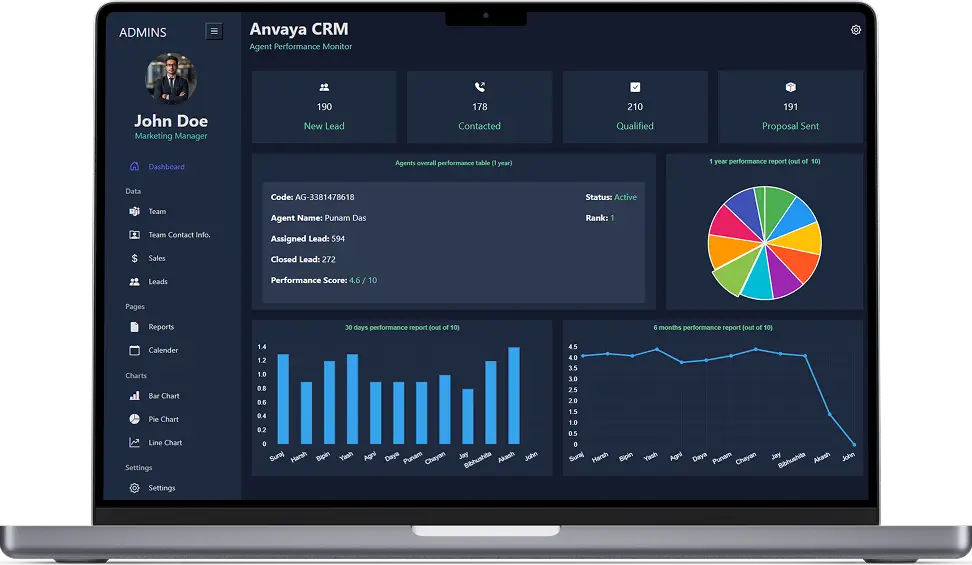
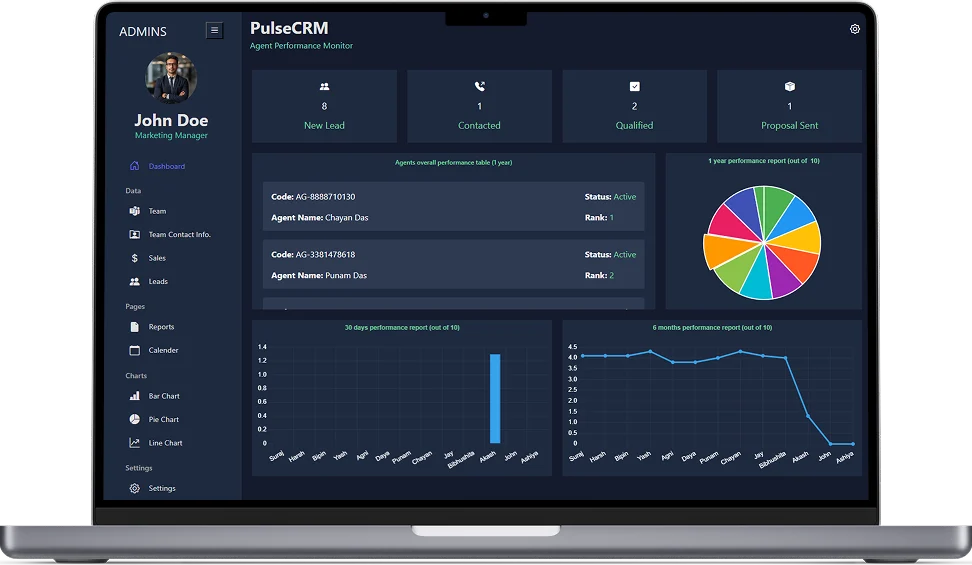
Add Resume button

diff --git a/index.html b/index.html
@@ -168,6 +168,12 @@
           <div class="bio-text">
             <h1 class="dev-name">Akash Das</h1>
             <p class="dev-title">MERN Stack Developer</p>
+            <a
+              class="resume-anchor"
+              href="https://drive.google.com/file/d/1YCBB3FFnG5zaSoyEmLsEnBIT4MhwNz0E/view?usp=sharing"
+              target="_blank"
+              ><button class="btn btn-resume">Resume</button></a
+            >
             <button class="btn btn-about" onclick="openAboutMeSection()">
               About Me
               <svg
@@ -306,18 +312,22 @@
               </p>
             </div>
 
-            <ul class="about-me-detail">
-              <li>#Javascript (ES6+)</li>
-              <li>#React.js</li>
-              <li>#node.js</li>
-              <li>#Express.js</li>
-              <li>#mongoDB</li>
-              <li>#mongoose</li>
-              <li>#HTML5</li>
-              <li>#CSS3</li>
-              <li>#Bootstrap</li>
-              <li>#git</li>
-            </ul>
+            <div>
+              <h2 class="tech-stack-title">Tech Stack</h2>
+              <p class="tech-stack-para">Technologies and tools I work with</p>
+              <ul class="about-me-detail">
+                <li>#Javascript (ES6+)</li>
+                <li>#React.js</li>
+                <li>#node.js</li>
+                <li>#Express.js</li>
+                <li>#mongoDB</li>
+                <li>#mongoose</li>
+                <li>#HTML5</li>
+                <li>#CSS3</li>
+                <li>#Bootstrap</li>
+                <li>#git</li>
+              </ul>
+            </div>
 
             <div class="top-skills">
               <h2 class="mern">MERN STACK</h2>

diff --git a/style.css b/style.css
@@ -113,6 +113,16 @@ body {
   padding-right: 2rem;
 }
 
+.btn-resume {
+  margin-bottom: 10px;
+  margin-right: 10px;
+}
+
+.resume-anchor {
+  text-decoration: none;
+  color: #ffffff;
+}
+
 .btn-arrow {
   position: absolute;
   top: 50%;
@@ -150,7 +160,7 @@ body {
 .about-section {
   width: 90%;
   max-width: 1200px;
-  height: 700px;
+  height: 750px;
   position: fixed;
   top: 50%;
   display: flex;
@@ -201,11 +211,22 @@ body {
 }
 
 .about-me-title,
+.tech-stack-title,
 .mern {
   color: #1595b6;
   font-size: 1.5rem;
   font-weight: 700;
   margin-bottom: 1.5rem;
+}
+
+.tech-stack-title {
+  margin-bottom: 0.5rem;
+}
+
+.tech-stack-para {
+  margin-top: 0px;
+  margin-bottom: 15px;
+  color: #1595b6;
 }
 
 .about-me-detail:first-of-type {
@@ -1015,7 +1036,7 @@ body {
   }
 }
 
-@media (max-width: 992px) {
+@media (max-width: 1000px) {
   .about-section {
     flex-direction: column;
     justify-content: center;

diff --git a/script.js b/script.js
@@ -103,12 +103,3 @@ moonIcon.addEventListener("click", () => {
     input.style.backgroundColor = "#374151"
   })
 })
-
-const emailIcon = document.querySelector(".email-icon")
-
-emailIcon.addEventListener("click", () => {
-  window.open(
-    "https://mail.google.com/mail/?view=cm&fs=1&to=your.email@gmail.com",
-    "_blank",
-  )
-})
